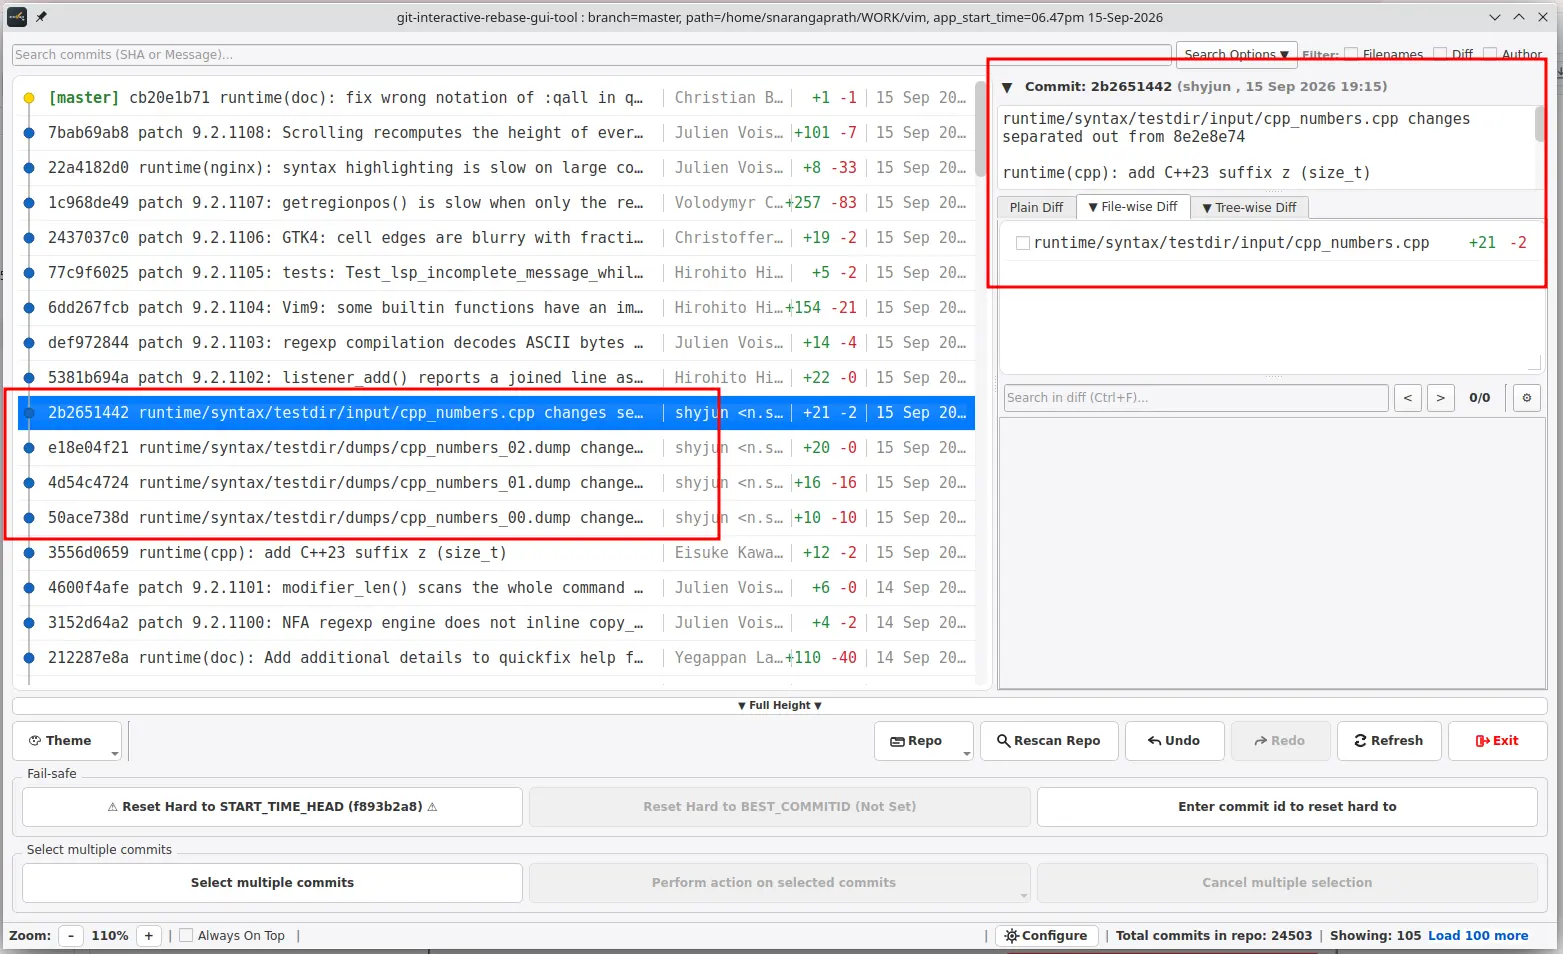
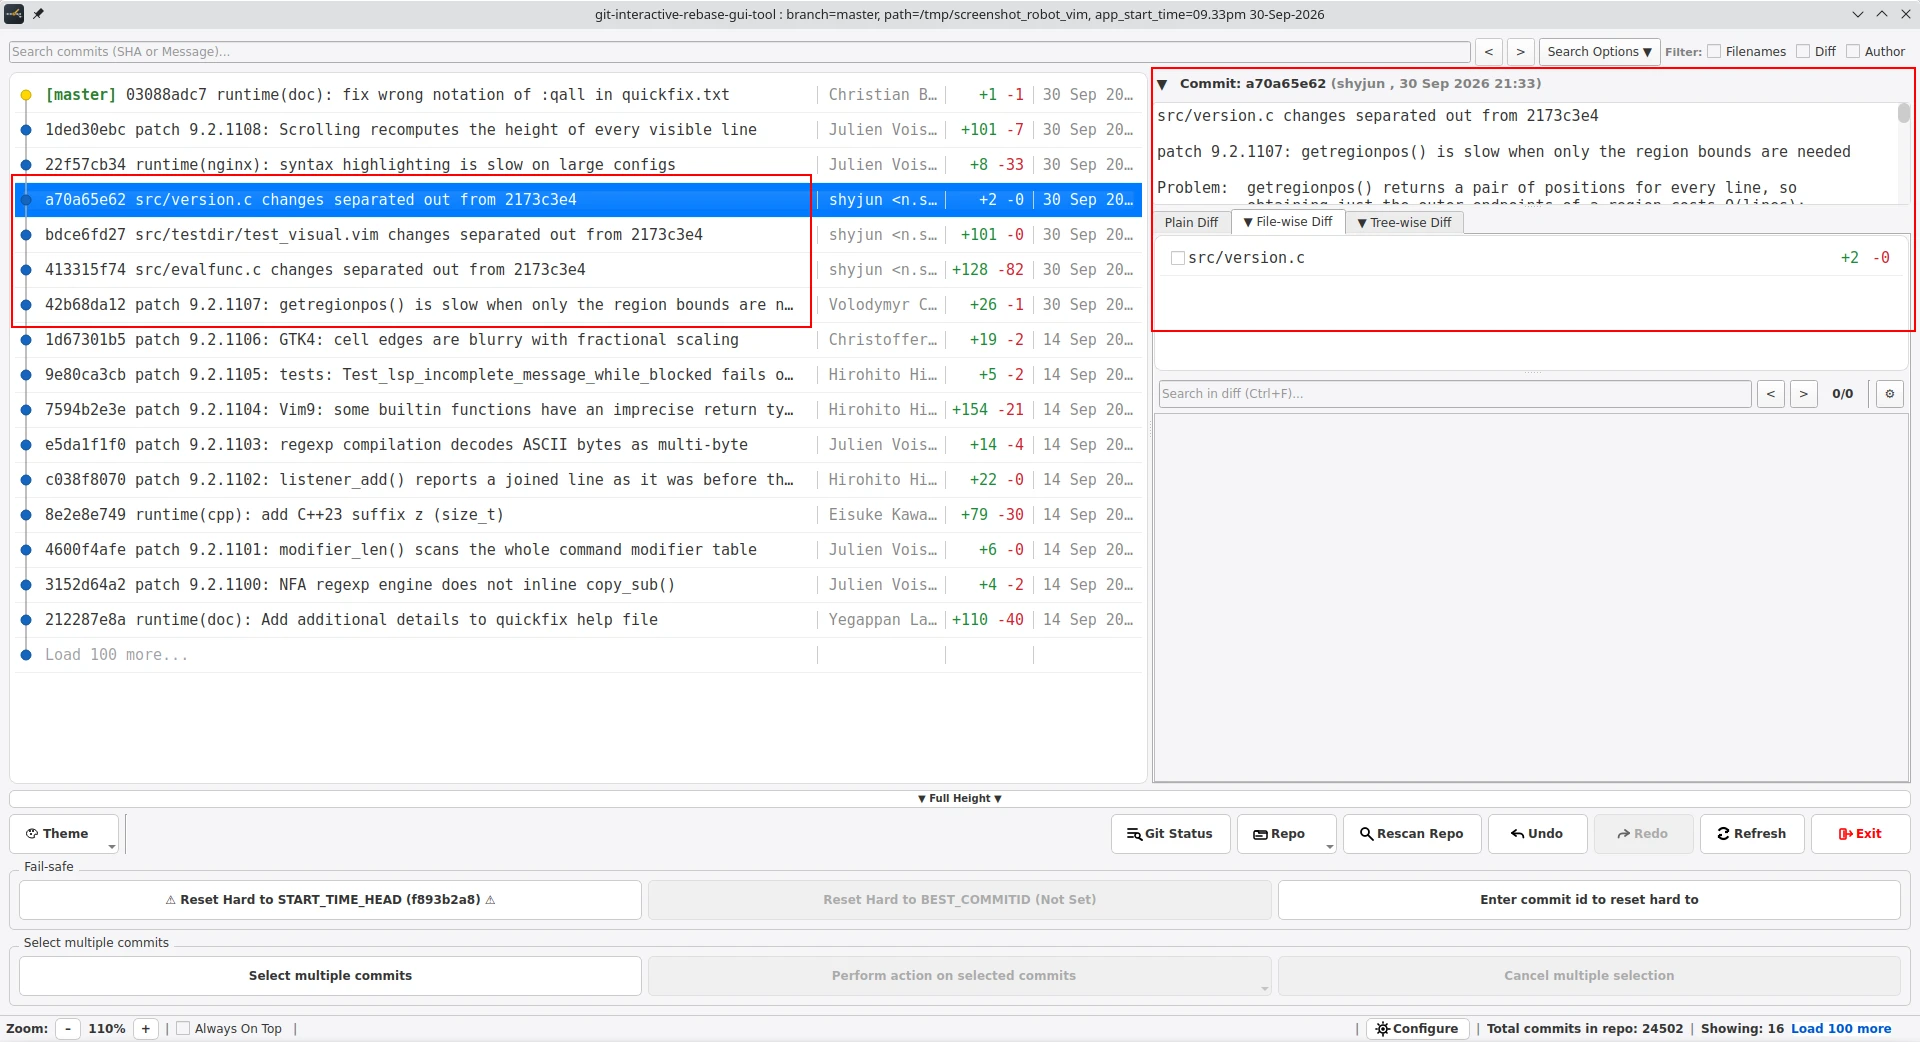
capture: split-each-to-separate.webp

Changed region(s): [[0.0, 0.0, 1.0, 1.0], [0.3992, 0.8208, 0.5835, 0.8816]]

diff --git a/capture_lib.py b/capture_lib.py
@@ -220,6 +220,30 @@ class Tool:
         _sh_ok(["xdotool", "click", str(button)], "click")
         time.sleep(0.2)
 
+    def drag(self, x1, y1, x2, y2, steps=12):
+        """Press at (x1, y1), drag to (x2, y2), release. Frame-relative
+        coordinates, same space as click()."""
+        self.activate()
+        left, _, top, _ = self._frame_extents()
+        x, y, _, _ = self._client_geometry()
+        sx, sy = x - left, y - top
+        _sh_ok(["xdotool", "mousemove", str(sx + int(x1)), str(sy + int(y1))],
+               "drag move")
+        time.sleep(0.2)
+        _sh_ok(["xdotool", "mousedown", "1"], "drag mousedown")
+        time.sleep(0.1)
+        # interpolated steps: Qt needs the motion to exceed its drag threshold
+        # (~10px) and each hop updates the drop indicator; no --sync here -
+        # mid-drag it would stall whenever a hop lands on the current position
+        for i in range(1, steps + 1):
+            fx = sx + int(x1 + (x2 - x1) * i / steps)
+            fy = sy + int(y1 + (y2 - y1) * i / steps)
+            _sh_ok(["xdotool", "mousemove", str(fx), str(fy)], "drag move")
+            time.sleep(0.03)
+        time.sleep(0.2)
+        _sh_ok(["xdotool", "mouseup", "1"], "drag mouseup")
+        time.sleep(0.3)  # drop event + dialog
+
     def activate(self):
         """Raise and focus our window (so nothing overlaps it during capture)."""
         active = _sh(["xdotool", "getactivewindow"]).stdout.strip()

diff --git a/reorder-commit.py b/reorder-commit.py
@@ -1,0 +1,45 @@
+"""Capture reorder-commit.webp - drag a commit row and confirm the reorder.
+
+Run it through main.py; it prepares the clone, settings and publishing.
+"""
+from capture_lib import Tool, capture, repo
+
+BOXES = [
+    {"rect": (694, 406, 1204, 554)},
+    ]
+
+
+def main():
+    # 1. put the reference clone back to the pinned commit
+    repo.reset_to_base()
+
+    # 2. open the tool and let the list settle
+    tool = Tool(args=["HEAD~13"], log_name="reorder-commit.log")
+    try:
+        tool.wait_for_window()
+        tool.maximize()  # capture in maximized view (screen workarea)
+        tool.sleep(1)    # commit list, diff pane and status labels have settled
+
+        # select the row, then drag it three rows down (rows are 27px apart)
+        tool.click(230, 165)
+        tool.sleep(0.3)
+        tool.drag(230, 165, 230, 246)
+
+        # 3. the drop pops the Confirm Reorder dialog - take its picture
+        #    (the dialog is never answered, close() dismisses it)
+        tool.sleep(0.5)
+        img = capture(
+            tool,
+            description="dragged commit row three positions down, Confirm Reorder dialog",
+            size=(1920, 1042),
+        )
+        img.draw_box(BOXES)
+        img.save("reorder-commit.png")
+
+    finally:
+        # 4. close the tool - even when a step above failed
+        tool.close()
+
+
+if __name__ == "__main__":
+    main()

diff --git a/split-all-to-separate.py b/split-all-to-separate.py
@@ -5,7 +5,7 @@ Run it through main.py; it prepares the clone, settings and publishing.
 from capture_lib import Tool, capture, repo
 
 BOXES = [
-    {"rect": (11, 174, 811, 327)},
+    {"rect": (9, 138, 623, 220)},
     {"rect": (1151, 67, 1915, 331)},
     ]
 
@@ -24,7 +24,7 @@ def main():
         tool.maximize()
 
         tool.sleep(1)
-        tool.click(231, 199, button=3)
+        tool.click(220, 165, button=3)
 
         tool.sleep(.1)
         tool.press("Down")
@@ -57,19 +57,16 @@ def main():
         tool.press("Right")
         tool.sleep(.1)
         tool.press("Down")
-        tool.sleep(.1)
-        tool.press("Down")
-        tool.sleep(.1)
-        tool.press("Down")
 
         tool.sleep(.1)
         tool.press("Return")
 
         tool.sleep(1)
-        tool.click(1059, 535)
+        tool.click(1078, 545)
 
         tool.sleep(1)
-        tool.click(1115, 520)
+        tool.click(1155, 521)
+
 
         tool.sleep(.5)
         # 3. take the picture (this shot has no red boxes)
@@ -81,6 +78,8 @@ def main():
         img.draw_box(BOXES)
         img.save("split-each-to-separate.png")
 
+        tool.sleep(.5)
+        tool.press("Escape")
 
         tool.sleep(.5)
         tool.press("Escape")

diff --git a/main.py b/main.py
@@ -66,7 +66,9 @@ SCENES = [
     #("main-interface.py", ["main-interface.png"]),
     #("plain-file-tree-diff.py", ["plain-file-tree-diff.png"]),
     #("split-move-single-file-1.py", ["split-move-single-file-1.png"]),
-    ("split-each-to-separate.py", ["split-each-to-separate.png"]),
+    #("split-each-to-separate.py", ["split-each-to-separate.png"]),
+    #("split-all-to-separate.py", ["split-all-to-separate.png"]),
+    ("reorder-commit.py", ["reorder-commit.png"]),
 
     #("test.py", ["test.png"]),
 
